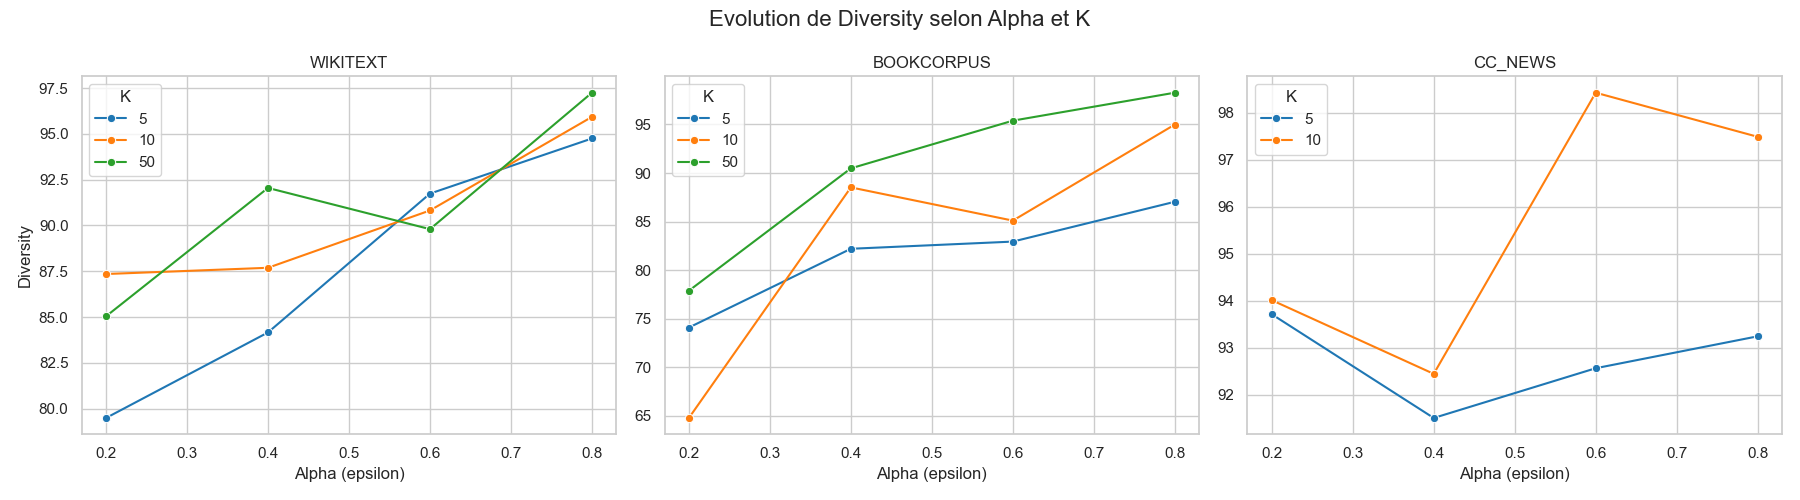
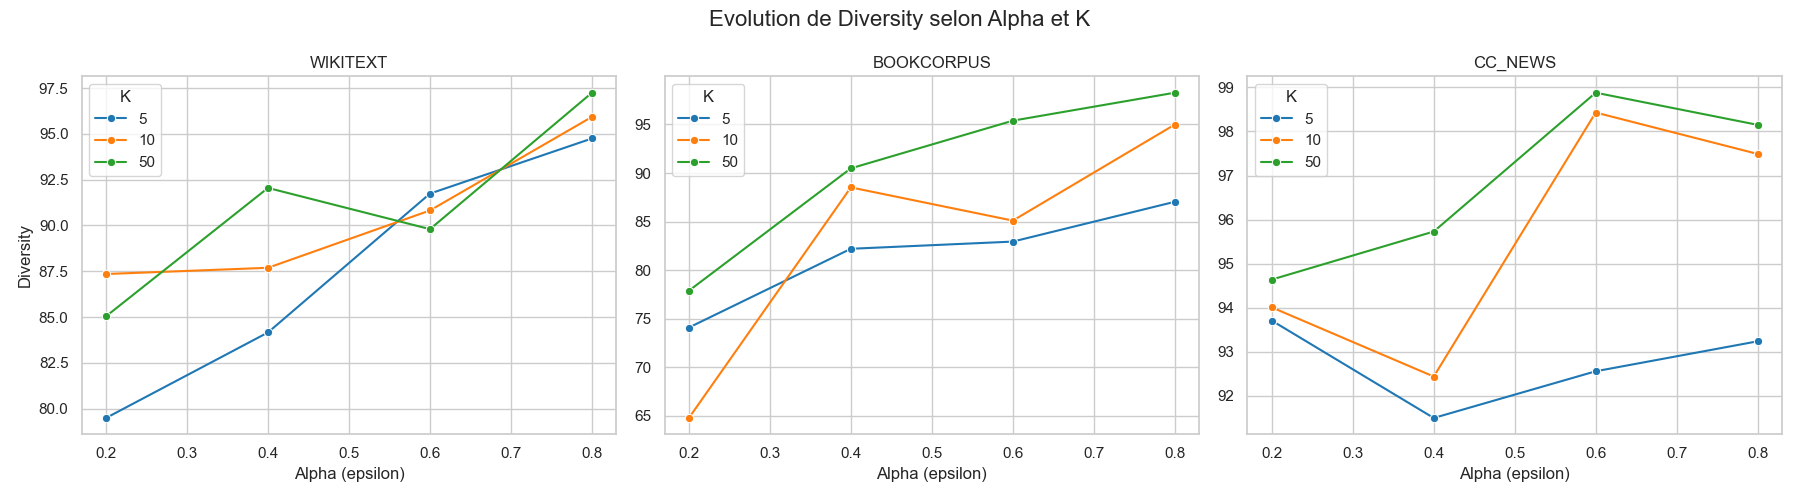
On branch dev Your branch is up to date with 'origin/dev'.
Changes to be committed:
	modified:   README.md
	modified:   plots_epsilon_grid_search/analysis_Coh_Likelihood.png
	modified:   plots_epsilon_grid_search/analysis_Diversity.png
	modified:   plots_epsilon_grid_search/analysis_MAUVE.png
	modified:   plots_epsilon_grid_search/analysis_Perplexity.png

diff --git a/README.md b/README.md
@@ -342,19 +342,28 @@ Epsilon Sampling Grid Search (Comparaison des différent dataset)
 | 10 | 0.2 | 2.6 | 64.78 | **-1.62** | 0.72 | 14.8 | 26.26 |
 | 10 | 0.4 | 3.2 | 88.52 | -1.89 | 0.70 | 17.7 | 27.34 |
 | 10 | 0.6 | 4.2 | 85.10 | -2.02 | **0.72** | 26.9 | 27.22 |
-| 10 | 0.8 | 5.8 | **94.99** | -2.28 | 0.72 | 19.6 | 27.58 |
+| 10 | 0.8 | 5.8 | 94.99 | -2.28 | 0.72 | 19.6 | 27.58 |
+| 50 | 0.2 | 5.0 | 77.88 | -1.82 | 0.70 | 14.9 | 26.02 |
+| 50 | 0.4 | 4.3 | 90.48 | -2.20 | 0.69 | 18.3 | 27.34 |
+| 50 | 0.6 | 4.7 | 95.39 | -2.51 | 0.68 | 24.7 | 27.34 |
+| 50 | 0.8 | 5.3 | **98.27** | -2.85 | 0.69 | 30.9 | 27.60 |
 
 ### CC_NEWS
 | K | Alpha | MAUVE | Diversity | Coh_Likelihood | Coh_SimCSE | Perplexity | Gen_Length |
 |:---:|:---:| :---: | :---: | :---: | :---: | :---: | :---: |
-| 5 | 0.2 | 88.7 | 93.71 | **-1.42** | **0.75** | **11.3** | 24.76 |
+| 5 | 0.2 | 88.7 | 93.71 | **-1.42** | 0.75 | **11.3** | 24.76 |
 | 5 | 0.4 | 93.3 | 91.50 | -1.52 | 0.75 | 12.0 | 25.08 |
 | 5 | 0.6 | 99.8 | 92.56 | -1.58 | 0.75 | 13.4 | 24.96 |
 | 5 | 0.8 | 97.9 | 93.24 | -1.68 | 0.75 | 14.7 | **25.46** |
 | 10 | 0.2 | 96.9 | 94.01 | -1.46 | 0.75 | 11.6 | 24.78 |
 | 10 | 0.4 | 99.8 | 92.44 | -1.58 | 0.75 | 13.9 | 25.38 |
-| 10 | 0.6 | 91.2 | **98.43** | -1.78 | 0.72 | 15.2 | 25.06 |
-| 10 | 0.8 | **99.9** | 97.49 | -1.92 | 0.72 | 17.5 | 25.34 | -->
+| 10 | 0.6 | 91.2 | 98.43 | -1.78 | 0.72 | 15.2 | 25.06 |
+| 10 | 0.8 | **99.9** | 97.49 | -1.92 | 0.72 | 17.5 | 25.34 |
+| 50 | 0.2 | 93.6 | 94.64 | -1.53 | **0.76** | 13.8 | 24.88 |
+| 50 | 0.4 | 97.5 | 95.73 | -1.75 | 0.73 | 17.5 | 24.78 |
+| 50 | 0.6 | 99.6 | **98.88** | -2.08 | 0.76 | 19.9 | 25.30 |
+| 50 | 0.8 | 99.7 | 98.15 | -2.23 | 0.72 | 20.7 | 24.98 |
+-->
 
 ============================================================================
 
@@ -390,19 +399,27 @@ Epsilon Sampling Grid Search (Comparaison des différent dataset)
 | 10 | 0.2 | 2.6 | 64.78 | $\color{red}{\mathbf{-1.62}}$ | 0.72 | 14.8 | 26.26 |
 | 10 | 0.4 | 3.2 | 88.52 | -1.89 | 0.70 | 17.7 | 27.34 |
 | 10 | 0.6 | 4.2 | 85.10 | -2.02 | $\color{red}{\mathbf{0.72}}$ | 26.9 | 27.22 |
-| 10 | 0.8 | 5.8 | $\color{red}{\mathbf{94.99}}$ | -2.28 | 0.72 | 19.6 | 27.58 |
+| 10 | 0.8 | 5.8 | 94.99 | -2.28 | 0.72 | 19.6 | 27.58 |
+| 50 | 0.2 | 5.0 | 77.88 | -1.82 | 0.70 | 14.9 | 26.02 |
+| 50 | 0.4 | 4.3 | 90.48 | -2.20 | 0.69 | 18.3 | 27.34 |
+| 50 | 0.6 | 4.7 | 95.39 | -2.51 | 0.68 | 24.7 | 27.34 |
+| 50 | 0.8 | 5.3 | $\color{red}{\mathbf{98.27}}$ | -2.85 | 0.69 | 30.9 | 27.60 |
 
 ### CC_NEWS
 | K | Alpha | MAUVE | Diversity | Coh_Likelihood | Coh_SimCSE | Perplexity | Gen_Length |
 |:---:|:---:| :---: | :---: | :---: | :---: | :---: | :---: |
-| 5 | 0.2 | 88.7 | 93.71 | $\color{red}{\mathbf{-1.42}}$ | $\color{red}{\mathbf{0.75}}$ | $\color{red}{\mathbf{11.3}}$ | 24.76 |        
+| 5 | 0.2 | 88.7 | 93.71 | $\color{red}{\mathbf{-1.42}}$ | 0.75 | $\color{red}{\mathbf{11.3}}$ | 24.76 |
 | 5 | 0.4 | 93.3 | 91.50 | -1.52 | 0.75 | 12.0 | 25.08 |
 | 5 | 0.6 | 99.8 | 92.56 | -1.58 | 0.75 | 13.4 | 24.96 |
 | 5 | 0.8 | 97.9 | 93.24 | -1.68 | 0.75 | 14.7 | $\color{red}{\mathbf{25.46}}$ |
 | 10 | 0.2 | 96.9 | 94.01 | -1.46 | 0.75 | 11.6 | 24.78 |
 | 10 | 0.4 | 99.8 | 92.44 | -1.58 | 0.75 | 13.9 | 25.38 |
-| 10 | 0.6 | 91.2 | $\color{red}{\mathbf{98.43}}$ | -1.78 | 0.72 | 15.2 | 25.06 |
+| 10 | 0.6 | 91.2 | 98.43 | -1.78 | 0.72 | 15.2 | 25.06 |
 | 10 | 0.8 | $\color{red}{\mathbf{99.9}}$ | 97.49 | -1.92 | 0.72 | 17.5 | 25.34 |
+| 50 | 0.2 | 93.6 | 94.64 | -1.53 | $\color{red}{\mathbf{0.76}}$ | 13.8 | 24.88 |
+| 50 | 0.4 | 97.5 | 95.73 | -1.75 | 0.73 | 17.5 | 24.78 |
+| 50 | 0.6 | 99.6 | $\color{red}{\mathbf{98.88}}$ | -2.08 | 0.76 | 19.9 | 25.30 |
+| 50 | 0.8 | 99.7 | 98.15 | -2.23 | 0.72 | 20.7 | 24.98 |
 
 ###  Analyse des Résultats (Grid Search)
 
